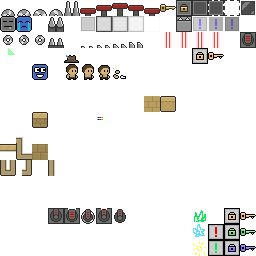
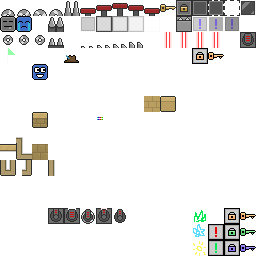
work in progress animationcontroller

Changed region(s): [[0.25, 0.25, 0.5, 0.3125]]

diff --git a/src/builders/player_builders.rs b/src/builders/player_builders.rs
@@ -1,7 +1,7 @@
-use bevy::{ecs::system::EntityCommands, prelude::*};
+use bevy::{ecs::system::EntityCommands, platform::collections::HashMap, prelude::*};
 use avian2d::prelude::*;
 
-use crate::{common::{animated_sprite::SpriteAnimator, death::{DelayedDeathMarker, Killable}, physics::{avian_ex::ManyCollidingEntities, gravity::Gravity, layers::GamePhysicsLayer}, splat::SplatOnDeath}, ground::Groundable, local_player::{LocalPlayer, PLAYER_MAX_GRAVITY, PLAYER_SIZE}, player::{dash_controller::DashController, death::Respawnable, horizontal_movement_controller::{AirbourneHorizontalMovementController, GroundedHorizontalMovementController}, jump_controller::JumpController, physics_controller::PhysicsController, wall_jump_controller::{WallJumpController, WallStickable}}, stage::{stage_builder::stage_creator::TILE_SIZE, stage_objects::StageObject}, wall::Wallable};
+use crate::{common::{animated_sprite::SpriteAnimator, animation_controller::{AnimationController, AnimationState}, death::{DelayedDeathMarker, Killable}, physics::{avian_ex::ManyCollidingEntities, gravity::Gravity, layers::GamePhysicsLayer}, splat::SplatOnDeath}, ground::Groundable, local_player::{LocalPlayer, PLAYER_MAX_GRAVITY, PLAYER_SIZE}, player::{animation::PlayerAnimationState, dash_controller::DashController, death::Respawnable, horizontal_movement_controller::{AirbourneHorizontalMovementController, GroundedHorizontalMovementController}, jump_controller::JumpController, physics_controller::PhysicsController, wall_jump_controller::{WallJumpController, WallStickable}}, stage::{stage_builder::stage_creator::TILE_SIZE, stage_objects::StageObject}, wall::Wallable};
 use crate::local_player::*;
 
 #[derive(Resource)]
@@ -40,6 +40,17 @@ impl PlayerBuilder {
             Rect::new(TILE_SIZE * 3.0, 0.0, TILE_SIZE * 4.0, TILE_SIZE),
         ];
 
+        let dance_rects = vec![
+            Rect::new(0.0, TILE_SIZE * 2.0, TILE_SIZE, TILE_SIZE * 3.0),
+            Rect::new(TILE_SIZE, TILE_SIZE * 2.0, TILE_SIZE * 2.0, TILE_SIZE * 3.0),
+            Rect::new(TILE_SIZE * 2.0, TILE_SIZE * 2.0, TILE_SIZE * 3.0, TILE_SIZE * 3.0),
+            Rect::new(TILE_SIZE * 3.0, TILE_SIZE * 2.0, TILE_SIZE * 4.0, TILE_SIZE * 3.0),
+        ];
+
+        let mut state_animations = HashMap::<AnimationState, Vec<Rect>>::new();
+        state_animations.insert(AnimationState(PlayerAnimationState::Running as u32), run_rects.clone());
+        state_animations.insert(AnimationState(PlayerAnimationState::Idle as u32), dance_rects.clone());
+
         entity_commands.try_insert(((
             LocalPlayer,
             Sprite {
@@ -48,7 +59,9 @@ impl PlayerBuilder {
                 custom_size: Vec2::splat(1.0).into(),
                 ..default()
             },
-            SpriteAnimator::new(100, run_rects),
+            (SpriteAnimator::new(100, dance_rects),
+            AnimationController::new(state_animations),
+            AnimationState(PlayerAnimationState::Idle as u32)),
             Transform::from_scale(PLAYER_SIZE.extend(1.0)).with_translation(spawn_pos),
             RigidBody::Dynamic,
             SweptCcd::default(),

diff --git a/src/main.rs b/src/main.rs
@@ -21,7 +21,7 @@ use stage_editor::{renderer::systems::{draw_editor, refresh_editor_renderer}, St
 use main_menu::MainMenuPlugin;
 use wall::check_touching_wall;
 
-use crate::{builders::player_builders::init_player_builder, common::{mouse::WorldMouseMotion, physics::avian_ex::{handle_collision_remap_events, handle_many_colliding_entities, raise_collision_remap_events, CollisionRemapEvent}, rails::move_rail_riders, splat::{apply_splat_on_death, clear_splat_events, ClearSplatsEvent}}, databases::{save_db::{SaveDb, SaveGame}, splat_db::init_splat_db}, debugging::DebugPlugin, player::death::spawn_player_corpse, shaders::{background_shader::BackgroundMaterial, cctv_shader::{plugin::CCTVPostProcessPlugin, update_cctv_shader_time}, splat::SplatMaterial}, stage::stage_objects::{laser::update_laser_beams, pressure_spikes::{tick_pressure_spikes, trigger_pressure_spikes}, saw_shooter::SawShooter, spike::Spike}};
+use crate::{builders::player_builders::init_player_builder, common::{animation_controller::update_animation_states, mouse::WorldMouseMotion, physics::avian_ex::{handle_collision_remap_events, handle_many_colliding_entities, raise_collision_remap_events, CollisionRemapEvent}, rails::move_rail_riders, splat::{apply_splat_on_death, clear_splat_events, ClearSplatsEvent}}, databases::{save_db::{SaveDb, SaveGame}, splat_db::init_splat_db}, debugging::DebugPlugin, player::death::spawn_player_corpse, shaders::{background_shader::BackgroundMaterial, cctv_shader::{plugin::CCTVPostProcessPlugin, update_cctv_shader_time}, splat::SplatMaterial}, stage::stage_objects::{laser::update_laser_beams, pressure_spikes::{tick_pressure_spikes, trigger_pressure_spikes}, saw_shooter::SawShooter, spike::Spike}};
 
 mod common;
 
@@ -101,6 +101,7 @@ fn main() {
         .add_event::<CollisionRemapEvent>()
         .add_systems(PreUpdate, (raise_collision_remap_events, handle_collision_remap_events, handle_many_colliding_entities).chain())
         .add_systems(PreUpdate, move_rail_riders)
+        .add_systems(Update, update_animation_states)
         .run();
   
 }

diff --git a/src/common/animation_controller.rs b/src/common/animation_controller.rs
@@ -1,0 +1,34 @@
+
+use bevy::{platform::collections::HashMap, prelude::*};
+
+use crate::common::animated_sprite::SpriteAnimator;
+
+
+#[derive(Component)]
+pub struct AnimationController {
+    //pub animation_state: AnimationState,
+    pub state_animations: HashMap<AnimationState, Vec<Rect>>
+}
+
+impl AnimationController {
+    pub fn new(state_animations: HashMap<AnimationState, Vec<Rect>>) -> Self {
+        return Self {
+            state_animations
+        };
+    }
+}
+
+#[derive(PartialEq, Eq, Clone, Copy, Debug, Component, Hash)]
+pub struct AnimationState(pub u32);
+
+
+
+pub fn update_animation_states(
+    mut query: Query<(&AnimationController, &mut SpriteAnimator, &AnimationState), Changed<AnimationState>>
+) {
+    for (controller, mut animator, state) in &mut query {
+        if let Some(rects) = controller.state_animations.get(state) {
+            animator.set_new_rects(rects.clone());
+        }
+    }
+}

diff --git a/src/common/animated_sprite.rs b/src/common/animated_sprite.rs
@@ -45,6 +45,13 @@ impl SpriteAnimator {
             reverse: false
         }
     }
+
+    pub fn set_new_rects(&mut self, atlas_rects: Vec<Rect>) {
+        if atlas_rects.len() <= 0 { return; }
+        self.atlas_rects = atlas_rects;
+        self.current_atlas_index = 0;
+    }
+
     pub fn increment_atlas_index(&mut self) {
         if !self.reverse {
             self.current_atlas_index += 1;

diff --git a/src/player/animation.rs b/src/player/animation.rs
@@ -1,0 +1,10 @@
+
+use bevy::prelude::*;
+
+pub enum PlayerAnimationState {
+    Idle,
+    Running,
+    Jumping,
+    Falling,
+    OnWall
+}

diff --git a/src/common/mod.rs b/src/common/mod.rs
@@ -11,3 +11,4 @@ pub mod limited_stack;
 pub mod splat;
 pub mod math_ex;
 pub mod rails;
+pub mod animation_controller;

diff --git a/src/player/mod.rs b/src/player/mod.rs
@@ -7,3 +7,4 @@ pub mod common;
 pub mod spawner;
 pub mod death;
 pub mod dash_controller;
+pub mod animation;

diff --git a/README_ART.md b/README_ART.md
@@ -35,3 +35,51 @@
 - [ ] Vines hang from the ceiling
   - When things push them they move like a chain
   - Saw blades/lasers should cut the vine, destroying the bottom half?
+
+**Player Animations**
+
+- Jump
+- Fall
+- Run
+- Wall grip
+- Wall jump
+- Dance
+
+_Player States_
+
+- On wall (up/down)
+- On ground
+- Air up
+- Air down
+- Idle
+
+```rs
+pub struct StateAnimations {
+  enter: Vec<Rect>,
+  constant: Vec<Rect>
+}
+
+pub struct AnimationController {
+  current_state: AnimationState,
+  doing_enter: bool,
+  state_animations: HashMap<state_id: u32, StateAnimations>
+}
+
+// then I need an animationstatemask trait that can convert an enum to a u32 or something.
+// then we have an AnimationState(u32)
+
+
+// I COULD even have the SpriteAnimator keep track of the index, and then grab the rect from the AnimationController, instead of copying the Vec over every time.
+
+pub trait AnimationStateSet { ... }
+pub enum PlayerAnimationStates { ... }  // this will impl AnimationStateSet
+
+pub struct AnimationState(u32);
+impl AnimationState {
+  pub set_state(&mut self, state: AnimationStateSet) {
+    self.0 = state.as_u32();
+  }
+}
+
+pub fn system(query: Query<(), Changed<AnimationState>>)
+```
